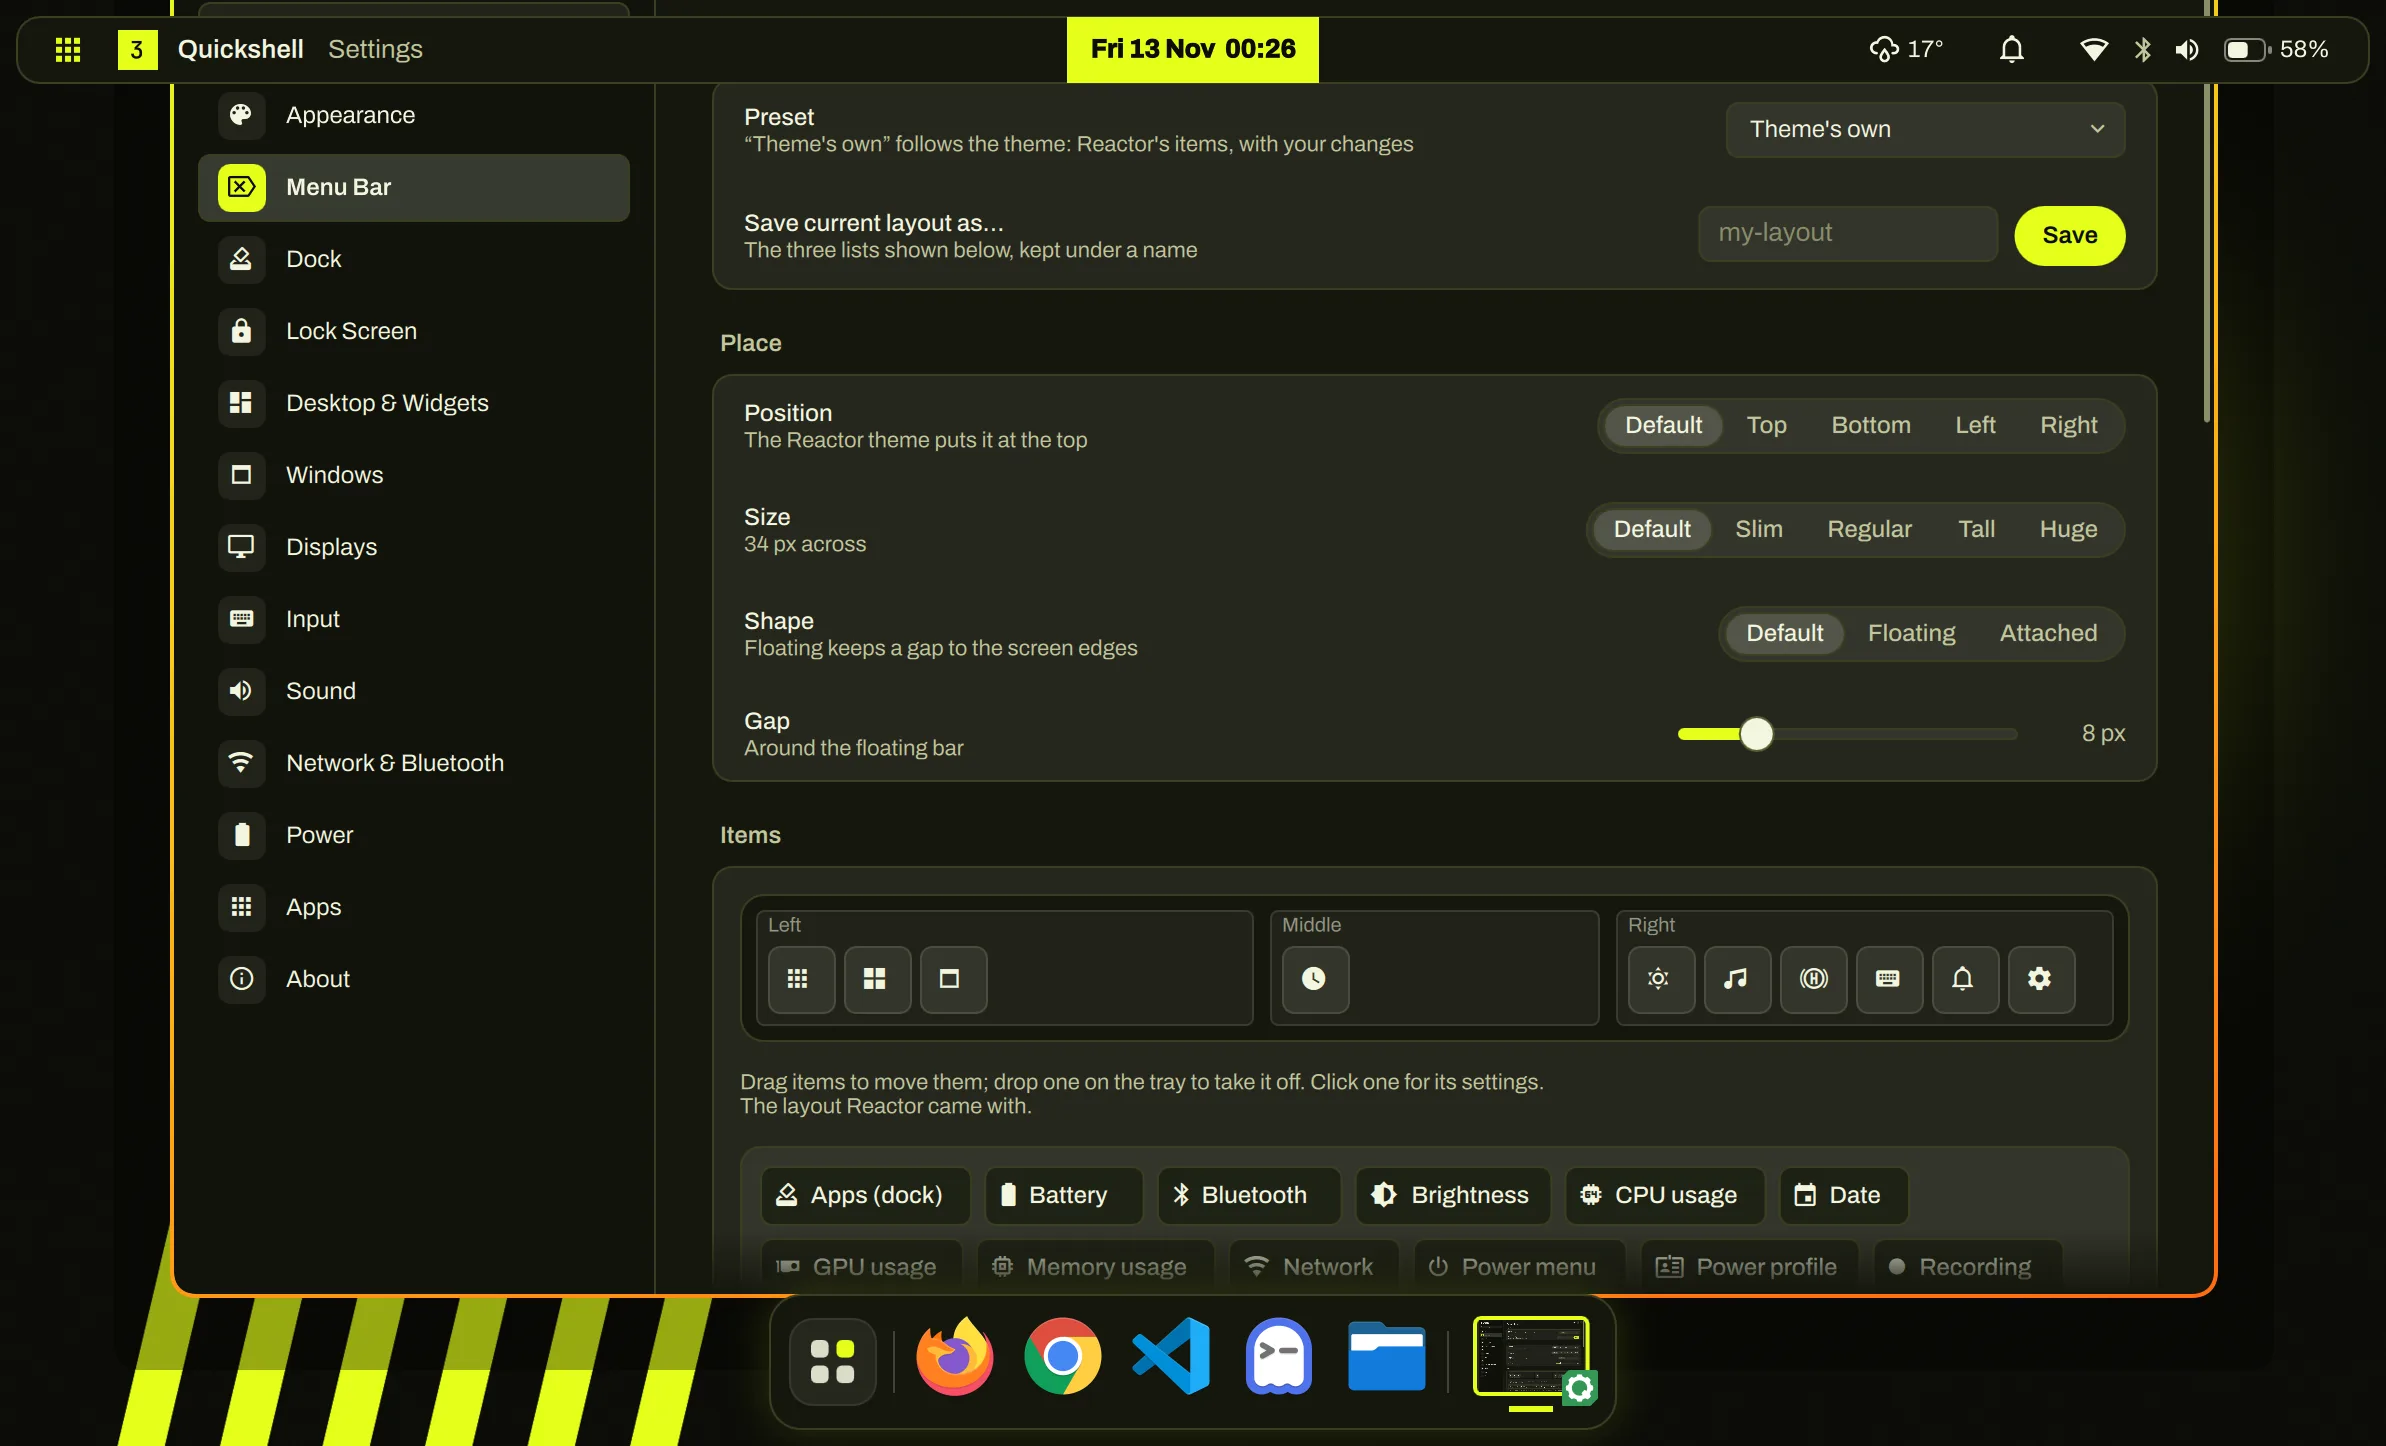
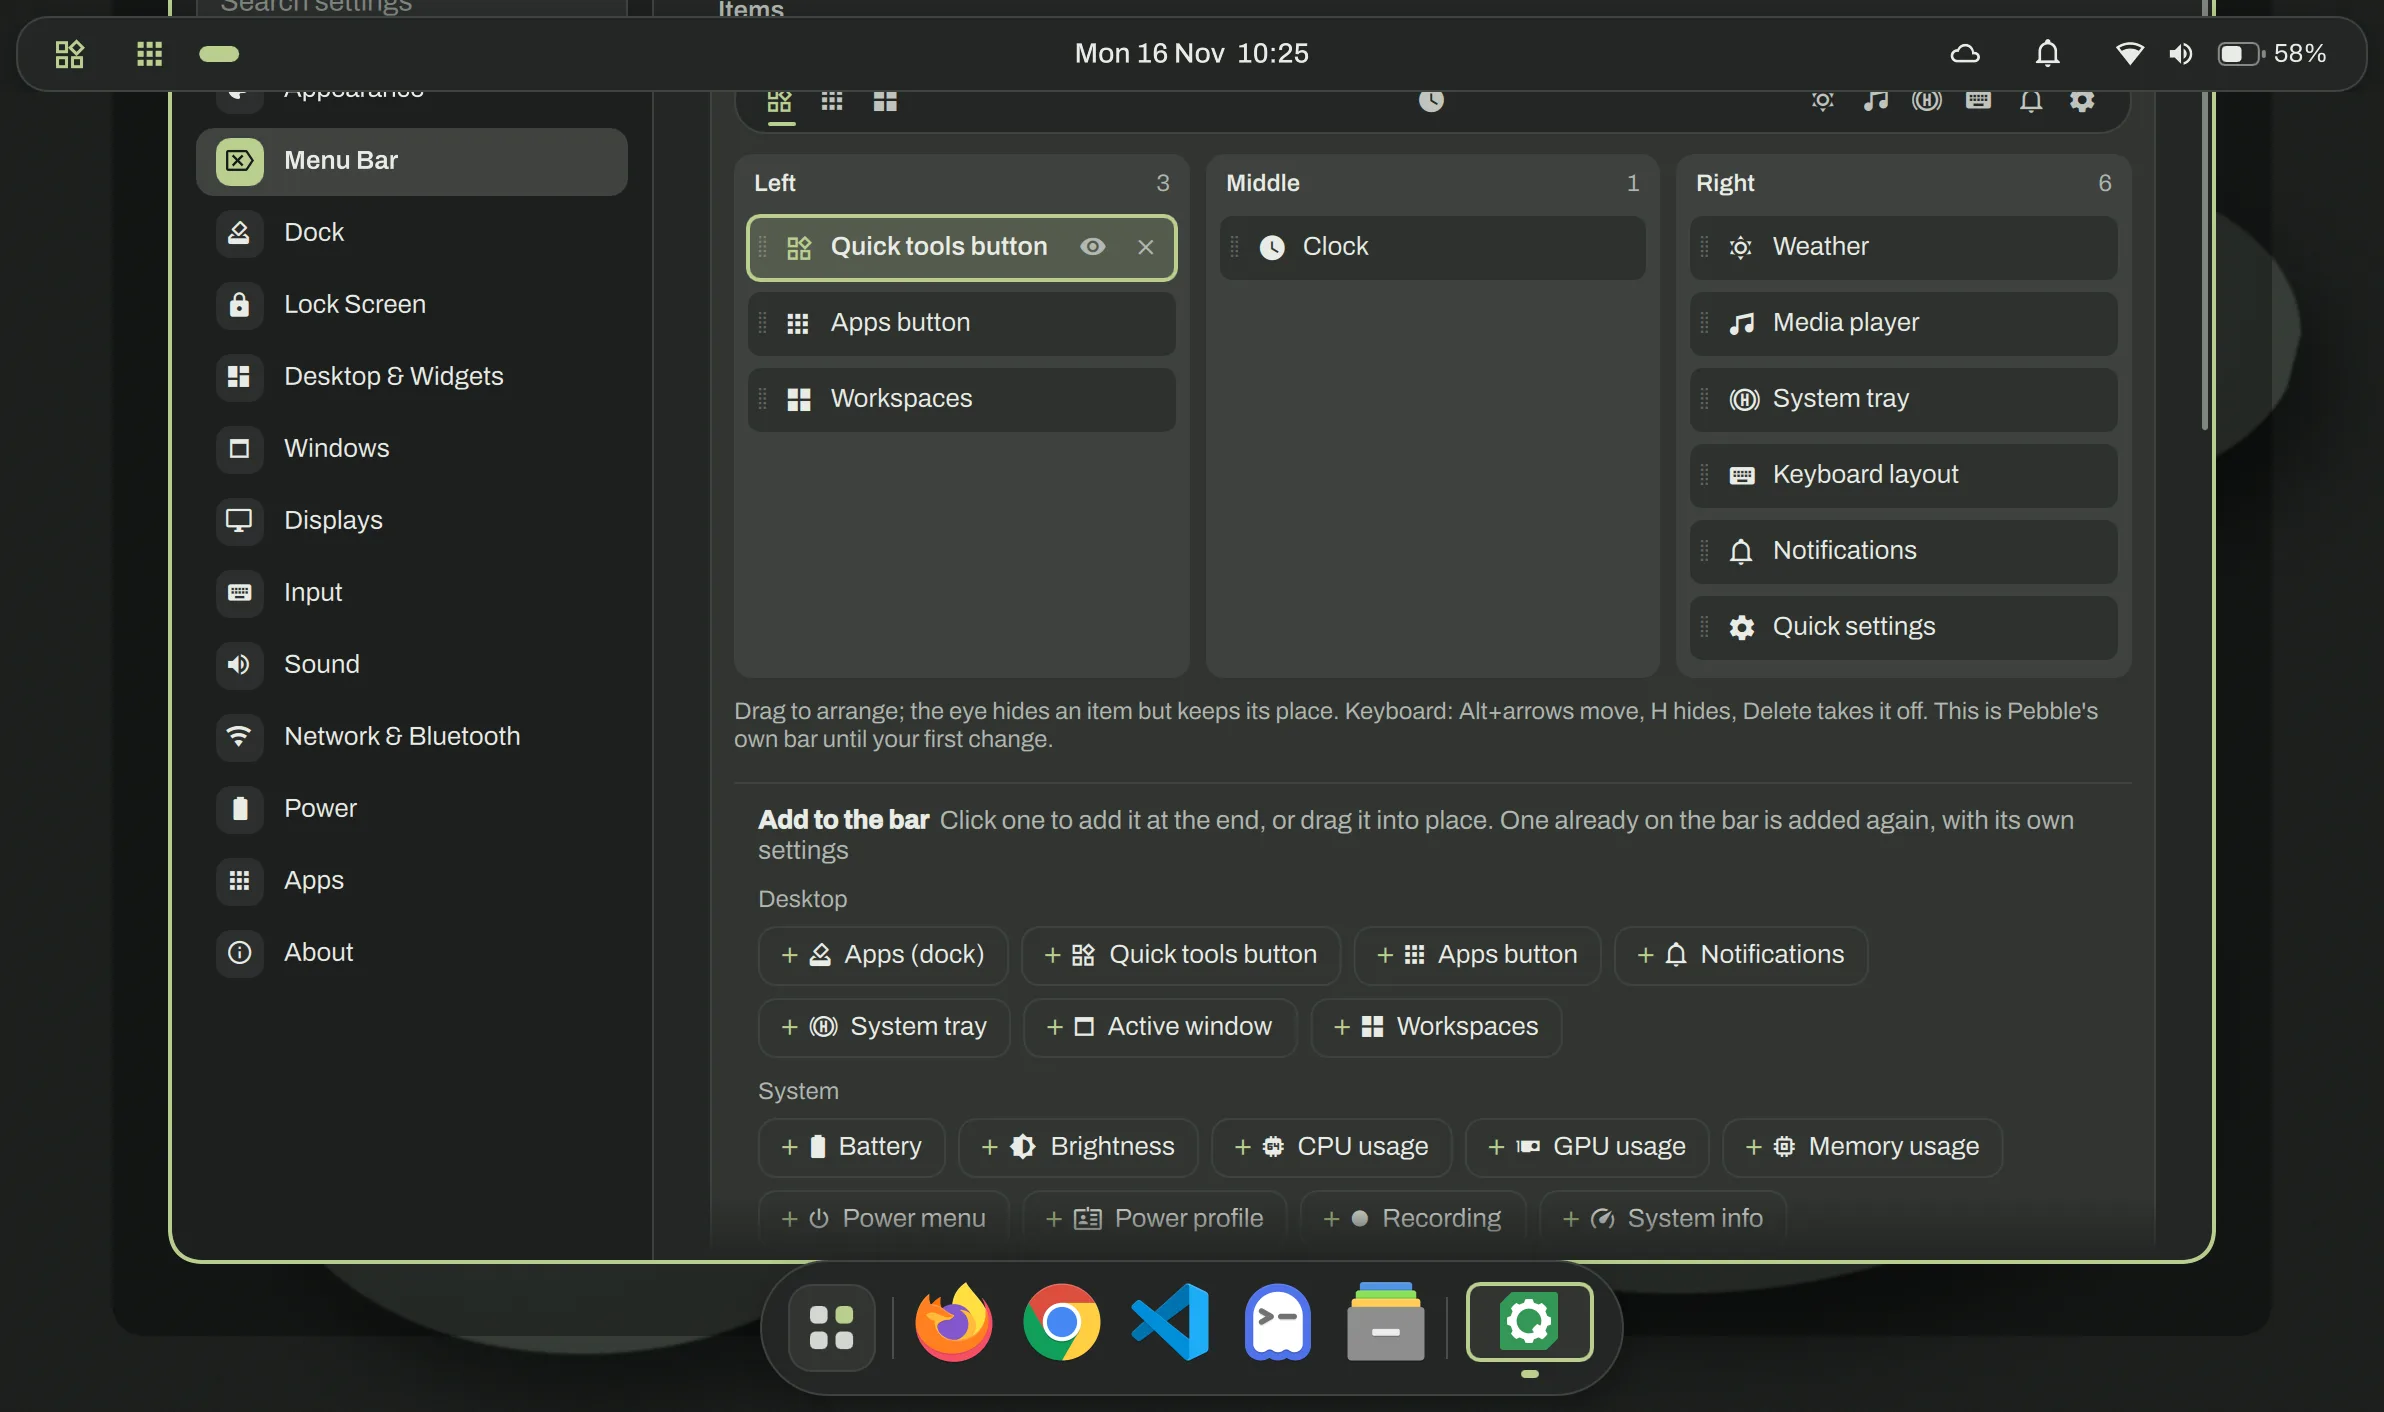
docs(readme): match the current desktop and retake the screenshots
Monolith redesign, bar shape per theme, icons and cursor per theme, Window
Look, the rearranged Control Center, notification styles, launcher right-click
menu, dock reordering, and the Print / Super+Shift+F6 keys.

diff --git a/README.md b/README.md
@@ -23,9 +23,10 @@ Hyprland + a Quickshell shell for Arch, CachyOS and Fedora, switched in one step
   file. Laptop, desktop, NVIDIA, touch screen: each gets the right setup, and nothing for hardware you do not have.
 - **Modules.** Parts for particular hardware or uses (gaming, dev tools, ASUS, tablets) are folders you can switch
   on or off. See [docs/modules.md](docs/modules.md).
-- **Themes are folders.** Three whole-desktop designs, each with a light and a dark half. Make your own by
-  copying one folder. See [docs/THEMES.md](docs/THEMES.md).
-- **The bar is modular.** Each item is its own folder, on any screen edge, with its own settings.
+- **Themes are folders.** Three whole-desktop designs, each with a light and a dark half and its own icons and
+  cursor. Make your own by copying one folder. See [docs/THEMES.md](docs/THEMES.md).
+- **The bar is modular.** Each item is its own folder with its own settings; put one in as often as you like
+  (two clocks, two system readouts).
 - **One settings file.** Everything you change in Settings (`Super+I`) is in `~/.config/quickshell/settings.json`,
   never in the repo.
 - **Free software only.** No paid apps, trials or subscriptions.
@@ -39,7 +40,7 @@ Hyprland + a Quickshell shell for Arch, CachyOS and Fedora, switched in one step
 |---|---|---|---|
 | **Pebble** (default) | calm and matte: river-stone greys, one lichen accent, light numerals, room to breathe | a floating bar at the top | gentle ease-out |
 | **Poster** | loud and graphic: paper and ink, red, cobalt and yellow, heavy type | a paper bar with huge workspace blocks, hard shadows | slams in |
-| **Monolith** | the desktop as tmux: mono type, acid lime, frames instead of shadows | a status line with your apps and an inverse lime clock | near-instant |
+| **Monolith** | a neon terminal HUD: mono type, blue-black, acid lime and an electric-blue second light, corner brackets instead of shadows | a slim floating status line: workspace reticles, your apps, media in the middle | near-instant |
 
 <table>
   <tr>
@@ -57,6 +58,8 @@ Hyprland + a Quickshell shell for Arch, CachyOS and Fedora, switched in one step
 **Adjust** (Settings → Appearance) changes any theme's accent colours, corners, gaps, frame, font, text size, window
 motion, shadow and blur, kept per theme; Reset puts it back. **Animations** is Full, Reduced or Off.
 **Light or dark** picks each theme's default, or Light or Dark for all of them.
+**Window Look** sets the window border (the theme's, accent, gradient, rainbow, neon, your own colours) and the
+title bars, which follow the theme. Each theme brings its own icon and cursor pack; **Icons** and **Cursor** pick another.
 
 ## Features
 
@@ -73,14 +76,14 @@ motion, shadow and blur, kept per theme; Reset puts it back. **Animations** is F
     <td colspan="2"><img src="docs/screenshots/features/settings-bar.webp" alt="Settings app, Menu Bar page with position, size, shape and a drag-and-drop item editor"></td>
   </tr>
   <tr>
-    <td colspan="2"><b>Menu bar</b>: one layout for every theme: any edge, any size, floating or attached, "Start from" presets, per-screen items; drag items between its three zones.</td>
+    <td colspan="2"><b>Menu bar</b>: your items stay the same in every theme; edge, size and floating or attached are kept per theme. "Start from" presets, per-screen items, any item more than once; drag items between its three zones.</td>
   </tr>
   <tr>
     <td><img src="docs/screenshots/features/launcher.webp" alt="Spotlight launcher showing all apps by category"></td>
     <td><img src="docs/screenshots/features/calendar.webp" alt="Calendar panel with a month grid and upcoming holidays"></td>
   </tr>
   <tr>
-    <td><b>Spotlight</b> (tap <code>Super</code>): suggestions, then apps, files, calculator, settings, actions and web; all apps by category.</td>
+    <td><b>Spotlight</b> (tap <code>Super</code>): suggestions, then apps, files, calculator, settings, actions and web; all apps by category. Right-click an app to pin it, show it in Files, see its info or uninstall it.</td>
     <td><b>Calendar</b> (click the clock): public holidays for your country, observances, moon phases, what's coming up.</td>
   </tr>
   <tr>
@@ -88,7 +91,7 @@ motion, shadow and blur, kept per theme; Reset puts it back. **Animations** is F
     <td><img src="docs/screenshots/features/power.webp" alt="Power menu with lock, sleep, hibernate, log out, restart and shut down"></td>
   </tr>
   <tr>
-    <td><b>Control Center</b> (<code>Super+C</code>): Wi-Fi, Bluetooth, Focus, Night Light, Caffeine, touch, recording, sliders, power mode; sections rearrangeable.</td>
+    <td><b>Control Center</b> (<code>Super+C</code>): Wi-Fi, Bluetooth, screen and sound sliders, Focus, Night Light, Caffeine, Dark mode, microphone, recording, power mode. Settings rearranges it: any tile large or small, sections and buttons hidden.</td>
     <td><b>Power menu</b>: lock, sleep, hibernate, log out, restart, shut down.</td>
   </tr>
   <tr>
@@ -113,20 +116,20 @@ motion, shadow and blur, kept per theme; Reset puts it back. **Animations** is F
   </tr>
   <tr>
     <td><b>System-info bar item</b>: pick the metrics it shows.</td>
-    <td><b>Notification centre</b>: everything you missed, in one place.</td>
+    <td><b>Notification centre</b>: everything you missed, in one place. Six popup styles, six places, Do Not Disturb on a schedule.</td>
   </tr>
 </table>
 
 <details>
 <summary><b>Everything else</b></summary>
 
-- **The bar**: one engine for every theme. Items: apps (the dock), apps button, workspaces, active window, clock,
-  date, media player, tray, keyboard layout, notifications, quick settings, network, Bluetooth, volume, brightness,
+- **The bar**: one engine for every theme. Items: apps (the dock), apps button, workspaces, active window, clock
+  (pick what it shows, or a date pattern of your own), date, weather, media player, tray, keyboard layout, notifications, quick settings, network, Bluetooth, volume, brightness,
   battery (percentage inside, beside or off), power profile, CPU, memory, GPU, a system-info item with many readings, recording, power menu. Every item works
-  on a horizontal bar and down a vertical one. The layout is one for every theme; "Start from" buttons copy a preset in. Bar items open flyouts
+  on a horizontal bar and down a vertical one. Your item lists are one for every theme; "Start from" buttons copy a preset in. Bar items open flyouts
   (volume, network, Bluetooth, brightness, media, battery).
 - **The dock**: on the theme's own edge, or in the bar as its Apps item. Size, icon size, auto-hide, pinned apps, open
-  windows, per monitor. Like the Windows taskbar, each open window is its own tile; **Combine** merges them into the
+  windows, per monitor; drag pinned apps to reorder them. Open windows show as icons or as names. Like the Windows taskbar, each open window is its own tile; **Combine** merges them into the
   app icon, with a live preview of each window on hover (click to bring up, middle-click to close).
 - **Notifications** have their own panel from the bell (with the unread count): Do Not Disturb, history grouped by app, Clear all.
 - **Weather** with several saved places, cached for offline use (Open-Meteo, no key).
@@ -224,10 +227,11 @@ one on screen**. Generated from `config/hypr/.config/hypr/modules/binds.lua`.
 
 | Keys | Action |
 |---|---|
-| `Alt+Shift+S`, `Print` | Screenshot an area (editor) |
+| `Print` | Capture bar: area, window, screen, delay, record |
+| `Alt+Shift+S` | Screenshot: drag an area or click a window (editor) |
 | `Ctrl+Print` | Screenshot an area, copy only |
 | `Shift+Print` | Screenshot this screen |
-| `Super+Print` | Screenshot the focused window |
+| `Super+Print` | Screenshot a window (click it) |
 | `Ctrl+Shift+Print` | Screenshot both screens |
 | `Alt+Print` | Screenshot in 5 seconds |
 | `Super+Ctrl+S` | Pin an area of the screen on top |
@@ -243,6 +247,7 @@ one on screen**. Generated from `config/hypr/.config/hypr/modules/binds.lua`.
 |---|---|
 | `Super+F5` | Next power mode (where the computer has power modes) |
 | `Super+F6` | Move the keyboard to the bar (arrows, Enter, Esc) |
+| `Super+Shift+F6` | Move the keyboard to the dock (arrows, Enter, menu key, Esc) |
 | `Super+L` | Lock the screen |
 | `Super+Shift+R` | Reload Hyprland |
 | `Super+Shift+E` | Log out |
